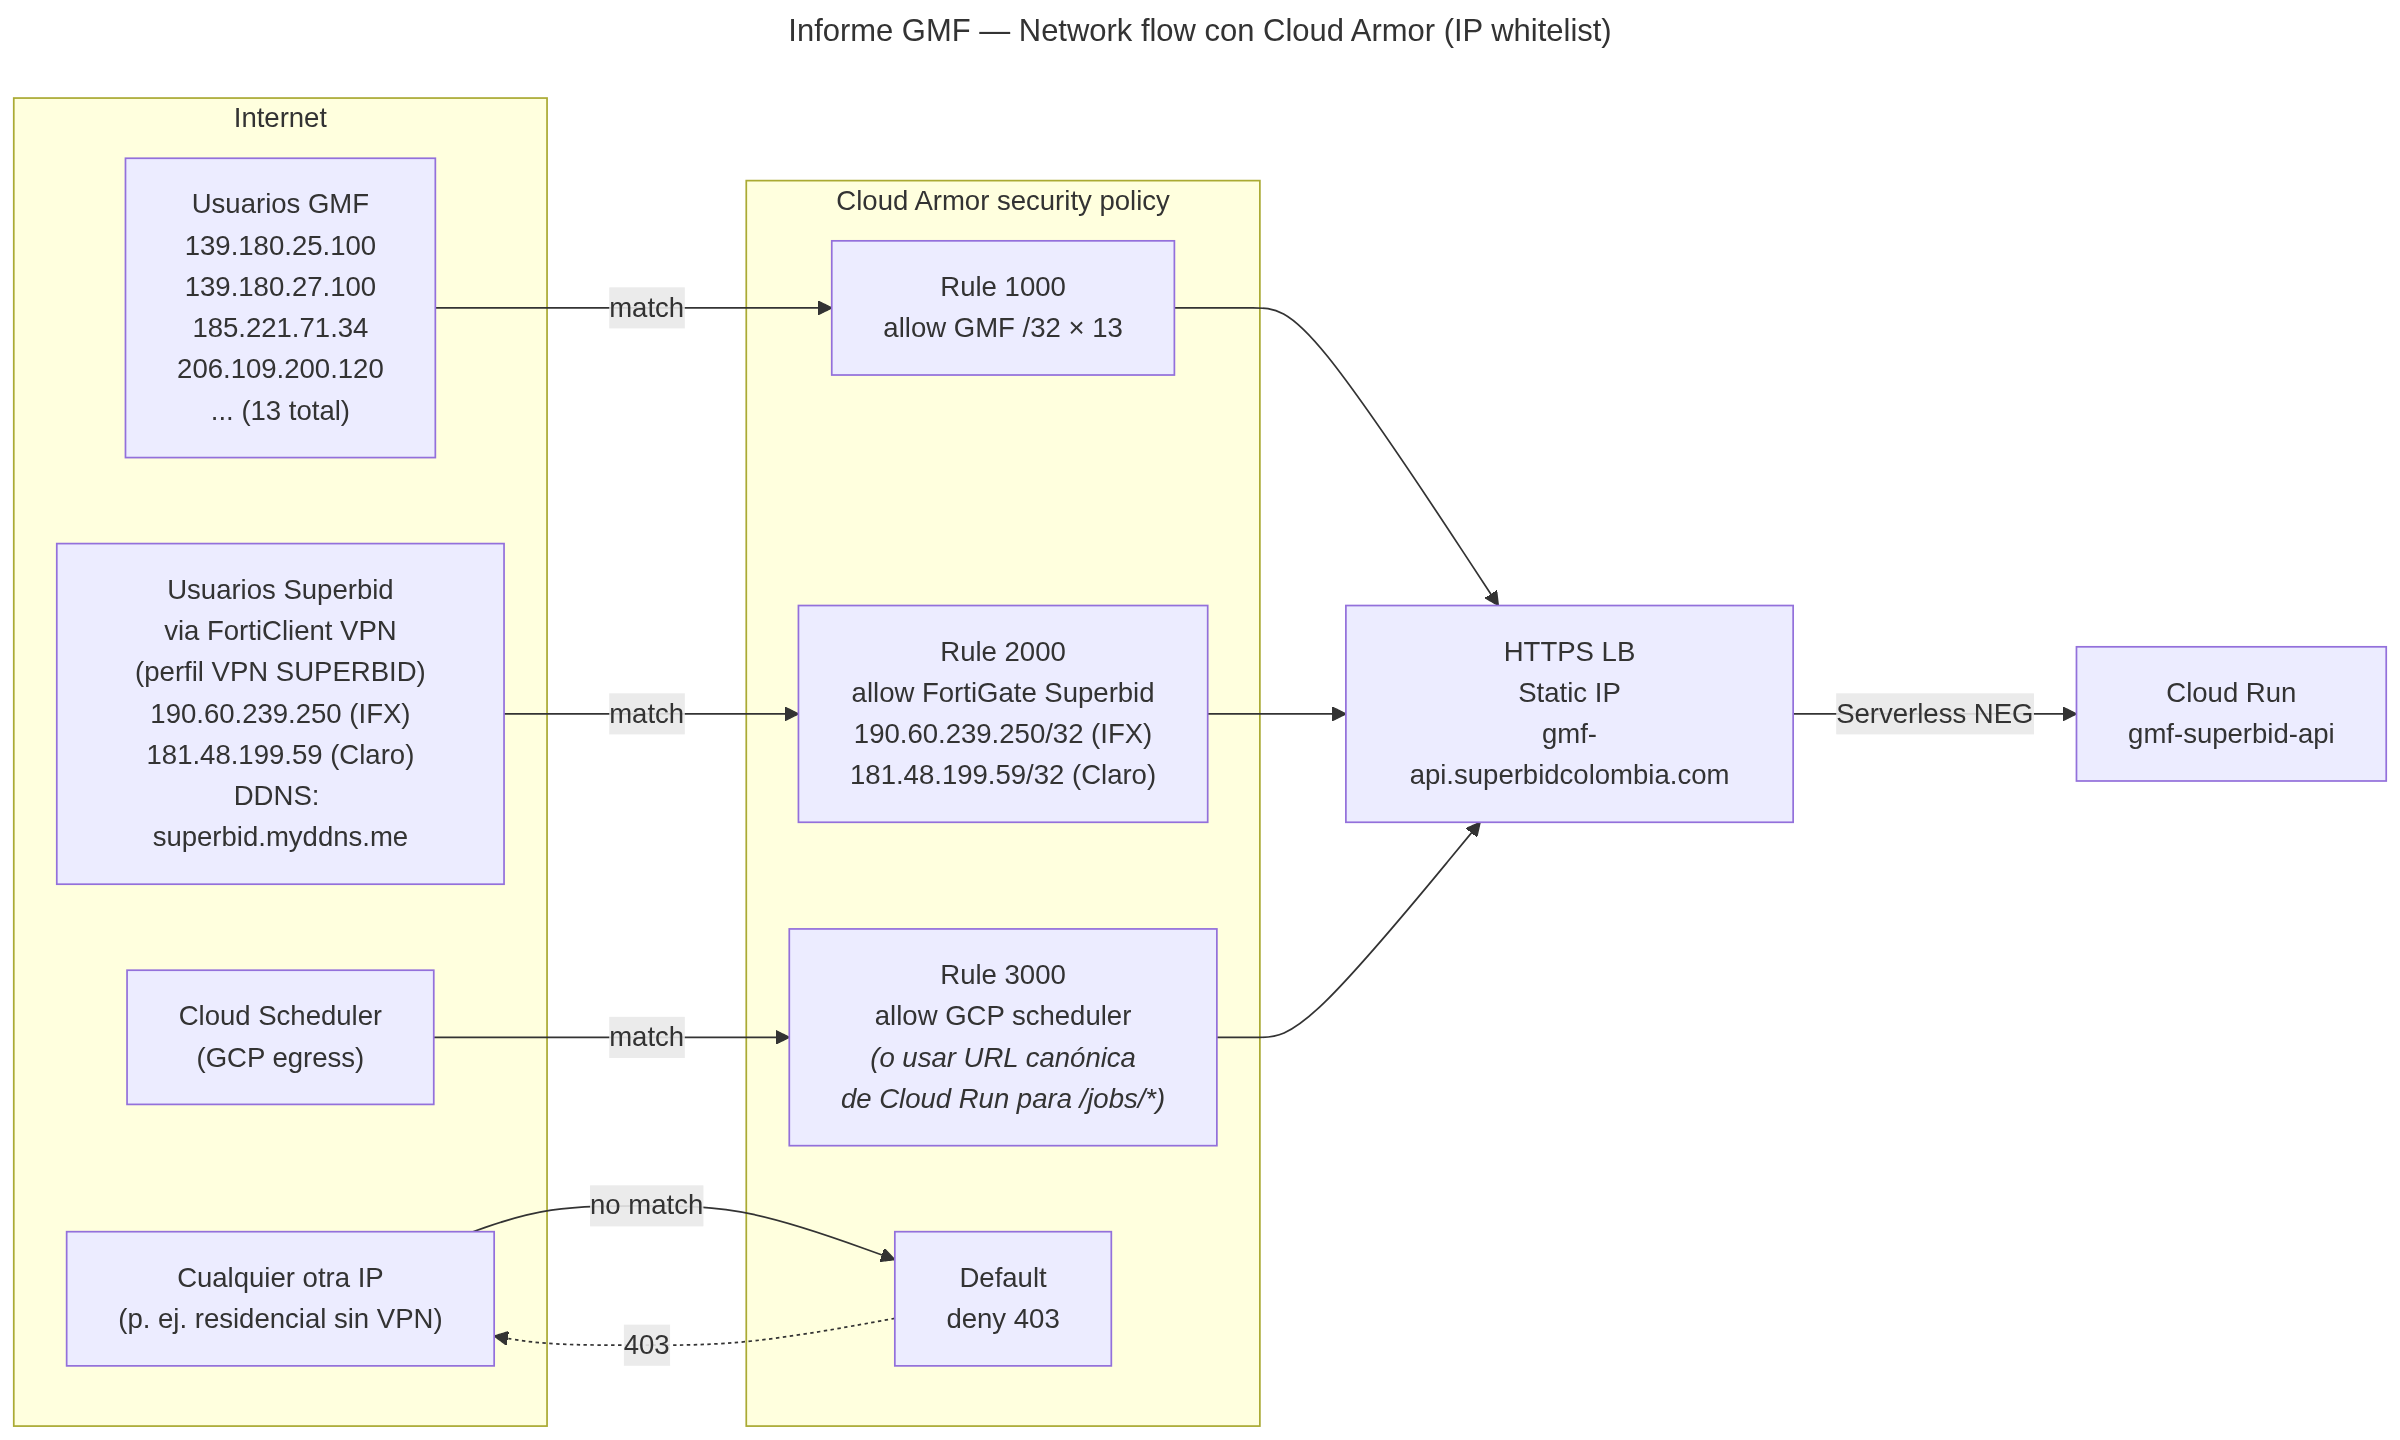
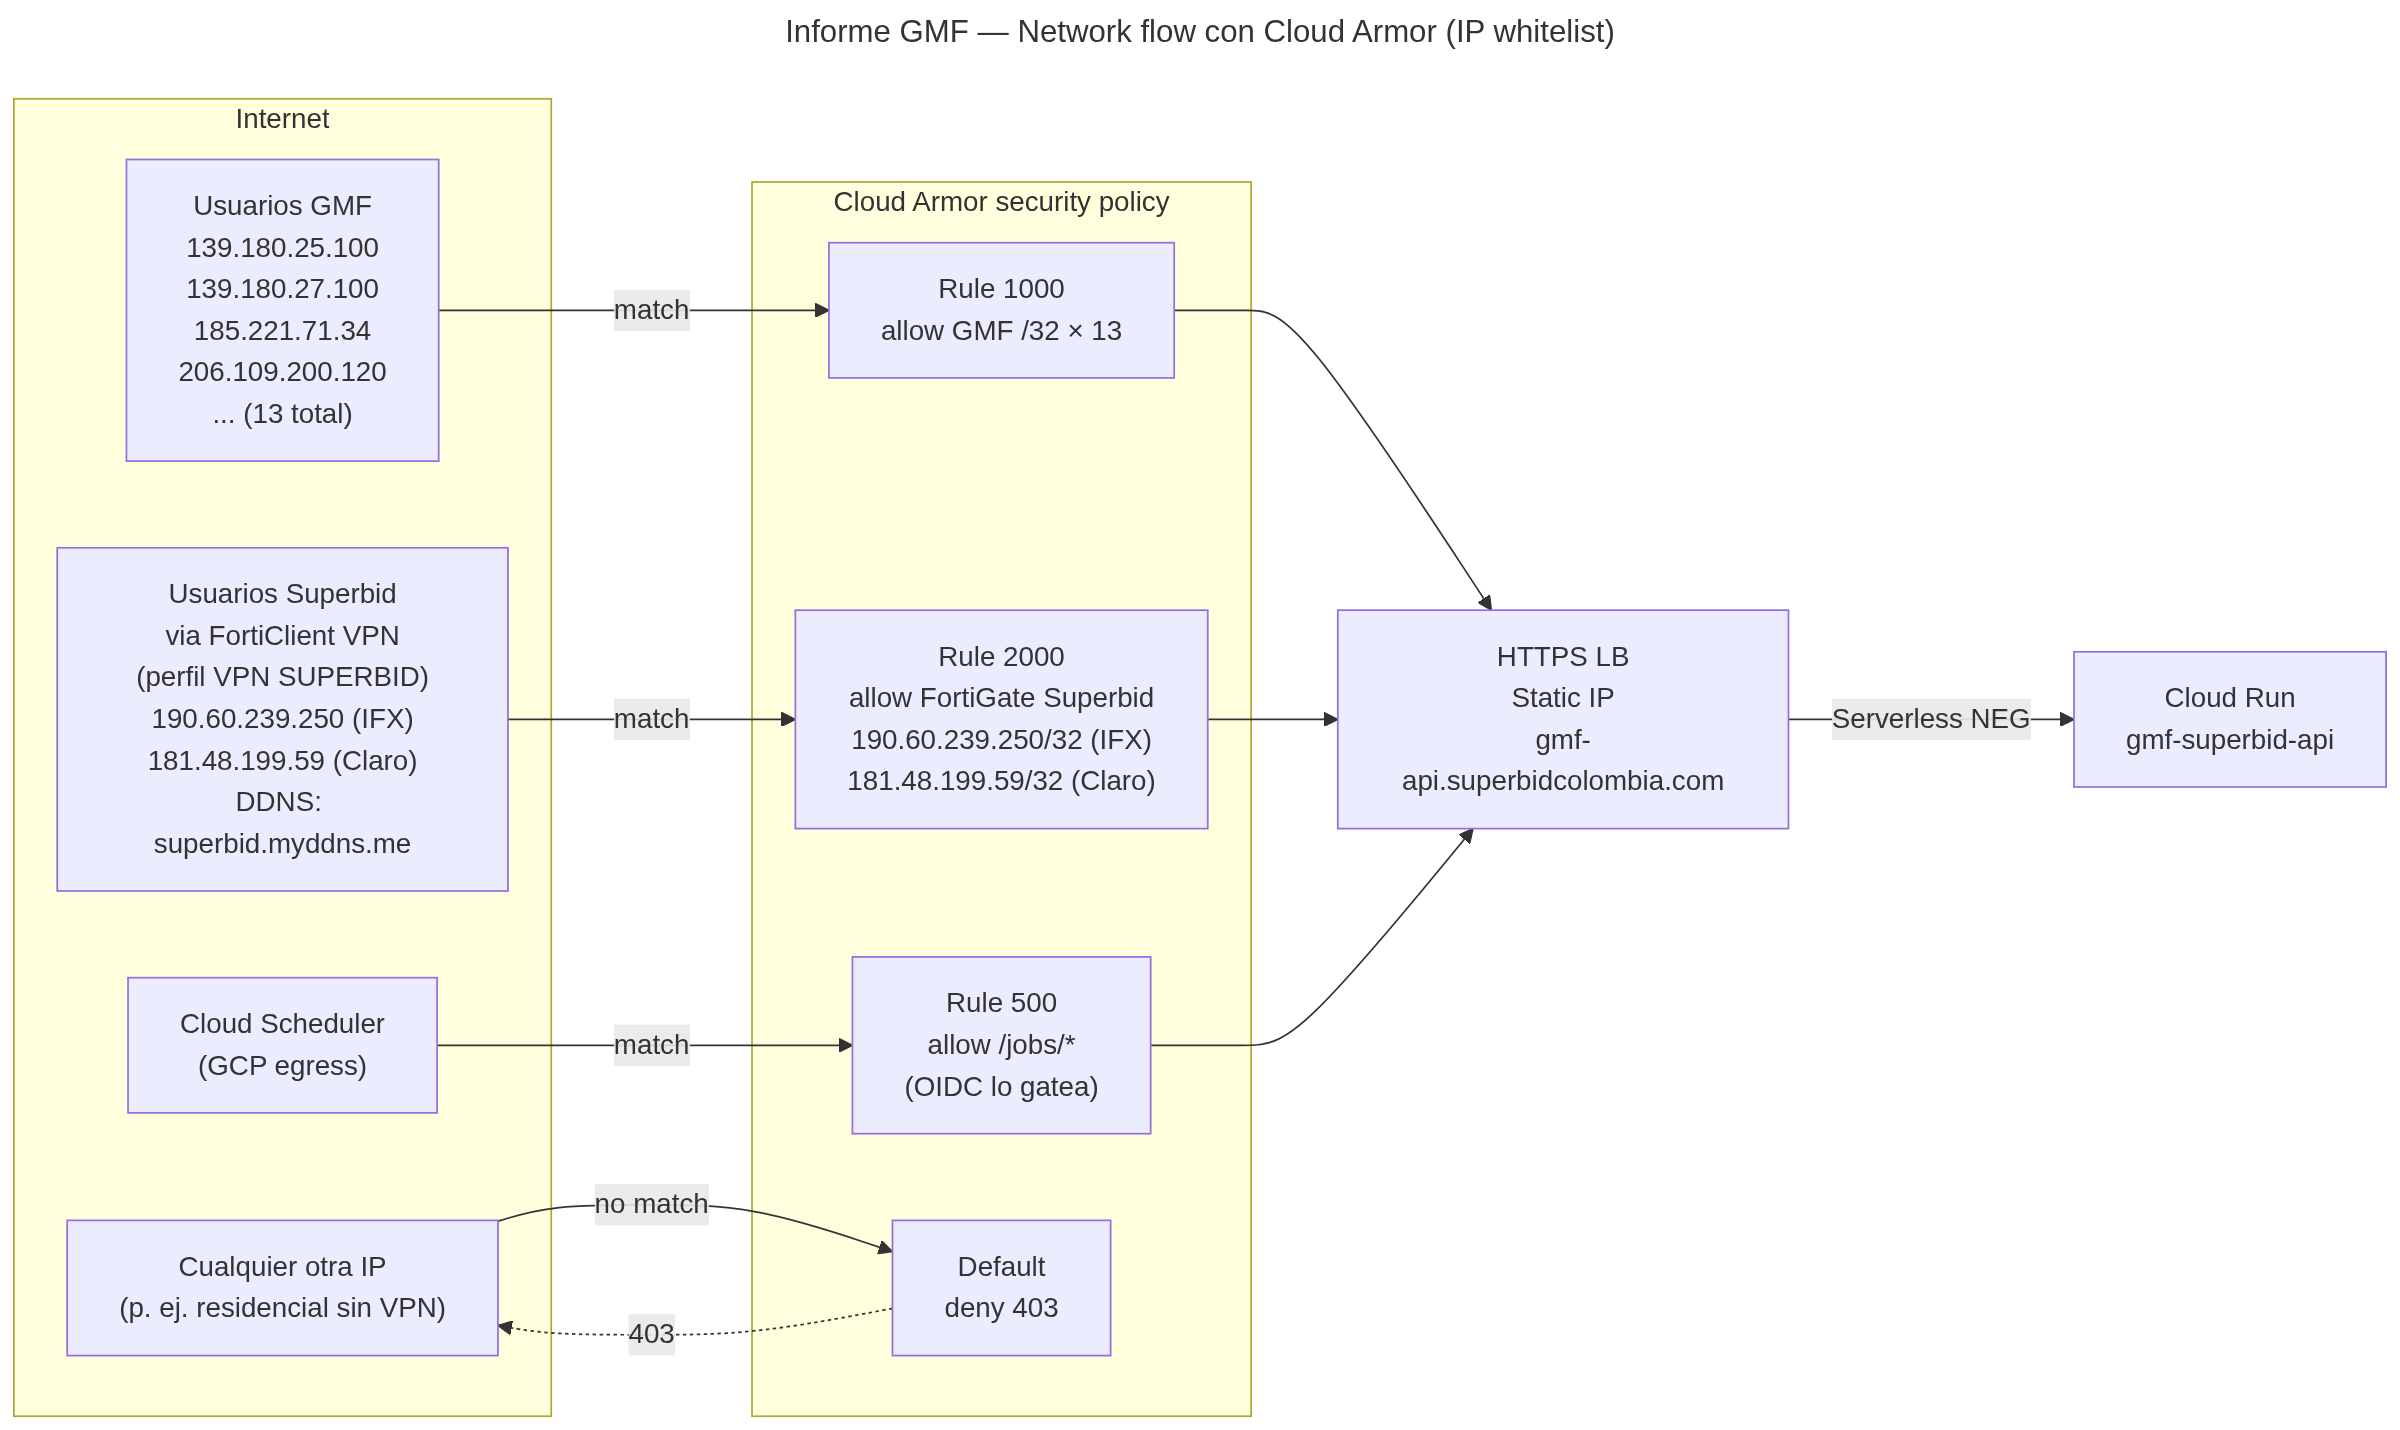
Tanda 3: CI frontend al bucket GCS, CORS, y sync de docs
Cierra hallazgos de drift del code-review 2026-05-13.

#5 (alto) — CI de frontend a target muerto:
- deploy-frontend.yml deja de deployar a Firebase Hosting (huérfano) y
  sube el build al bucket real gs://gmf-superbid-frontend (detrás del LB).
  Sin Cloud CDN, los objetos quedan live de inmediato. Cache-control:
  index.html/raíz no-cache, assets/ (con hash) inmutable 1 año. Smoke
  test por control-plane (describe del objeto; el sitio en vivo está tras
  Cloud Armor y el runner no está whitelisted).
- setup-gcloud project -> sbc-lovable (donde vive el bucket). El deployer
  SA ya tiene storage.admin ahí.
- Borra firebase.json y .firebaserc (config muerta; el frontend ya no
  usa Firebase Hosting).

#25 (bajo) — CORS con orígenes Firebase muertos:
- env.production.yaml ALLOWED_ORIGINS -> solo localhost + gmf.superbidcolombia.com.
  Aplicado también en vivo al servicio Cloud Run (revisión 00015).

#9/#10/#23/#24/#35 — arquitectura.md desactualizada:
- Cloud Armor + LB ya NO marcados "(planeado)" (están en enforce).
- Frontend: Firebase Hosting -> bucket GCS detrás del LB.
- Cloud Run: domain mapping borrado -> ingress=internal-and-cloud-load-balancing.
- Cloud Scheduler: endpoints por el LB; regla Cloud Armor allow /jobs/*.
- Tabla de recursos, modelo de auth (2 capas red+app) y lista CORS al día.
- Diagramas Mermaid inline + .mmd fuente actualizados; PNG regenerados
  vía mermaid.ink (01-overview, 02-network, 04-jobs).

diff --git a/docs/arquitectura.md b/docs/arquitectura.md
@@ -15,14 +15,11 @@ flowchart TB
         userSB["Usuarios Superbid<br/>FortiClient VPN obligatoria<br/>(perfil VPN SUPERBID)<br/>IFX 190.60.239.250<br/>Claro 181.48.199.59<br/>(balanceo + failover)"]
     end
 
-    subgraph fb["Firebase project: informegmf"]
-        fh["Firebase Hosting<br/><b>gmf.superbidcolombia.com</b><br/>SPA Vite/React/TS"]
-    end
-
     subgraph gcp_lov["GCP project: sbc-lovable"]
-        ca["Cloud Armor<br/>IP whitelist + deny default<br/><i>(planeado)</i>"]
-        lb["HTTPS Load Balancer<br/>+ Static IP global<br/><i>(planeado)</i>"]
-        cr["Cloud Run<br/><b>gmf-superbid-api</b><br/>Hono + Node 22<br/>us-central1"]
+        ca["Cloud Armor<br/>IP whitelist + deny default<br/>+ allow /jobs/*"]
+        lb["HTTPS Load Balancer<br/>+ Static IP 34.36.21.184"]
+        fh["GCS bucket<br/>gmf-superbid-frontend<br/><b>gmf.superbidcolombia.com</b><br/>SPA Vite/React/TS"]
+        cr["Cloud Run<br/><b>gmf-superbid-api</b><br/>Hono + Node 22<br/>ingress: solo LB"]
         sm["Secret Manager<br/>informegmf-*"]
         sched["Cloud Scheduler<br/>deadline-alerts +<br/>auction-complete<br/>daily 9 AM Bogotá"]
     end
@@ -42,13 +39,13 @@ flowchart TB
         okta["OKTA IdP<br/>GM Financial<br/><i>(planeado)</i>"]
     end
 
-    userGMF -->|HTTPS| fh
-    userSB -->|HTTPS| fh
-    fh -->|"gmf-api.superbidcolombia.com<br/>+ user JWT"| ca
+    userGMF -->|HTTPS| ca
+    userSB -->|HTTPS| ca
     ca --> lb
-    lb -->|Serverless NEG| cr
+    lb -->|"gmf.superbidcolombia.com"| fh
+    lb -->|"gmf-api... Serverless NEG"| cr
 
-    fh -.->|login flow| sauth
+    fh -.->|"login (browser → Supabase)"| sauth
     sauth -.->|SAML| okta
     sauth -->|JWT ES256| fh
 
@@ -59,10 +56,10 @@ flowchart TB
     cr -->|runtime config| sm
     cr -->|send| resend
 
-    sched -->|OIDC ID token<br/>aud=gmf-api...| cr
+    sched -->|"OIDC, vía LB /jobs/*"| lb
 
     classDef planned stroke-dasharray:5 5,stroke:#f59e0b,color:#92400e
-    class ca,lb,okta planned
+    class okta planned
 ```
 
 ### Network — IP whitelist (Cloud Armor)
@@ -88,7 +85,7 @@ flowchart LR
     subgraph policy["Cloud Armor security policy"]
         r1["Rule 1000<br/>allow GMF /32 × 13"]
         r2["Rule 2000<br/>allow FortiGate Superbid<br/>190.60.239.250/32 (IFX)<br/>181.48.199.59/32 (Claro)"]
-        r3["Rule 3000<br/>allow GCP scheduler<br/><i>(o usar URL canónica<br/>de Cloud Run para /jobs/*)</i>"]
+        r3["Rule 500<br/>allow /jobs/*<br/>(OIDC lo gatea)"]
         rd["Default<br/>deny 403"]
     end
 
@@ -150,8 +147,8 @@ sequenceDiagram
 
     Note over CS: deadline-alerts<br/>auction-complete
     CS->>SA: 1. firmar OIDC ID token<br/>aud=gmf-api.superbidcolombia.com
-    CS->>CA: 2. POST /jobs/<job><br/>Authorization: Bearer
-    Note over CA: allow GCP scheduler<br/>(o bypass via URL<br/>canónica de Cloud Run)
+    CS->>CA: 2. POST /jobs/<job> (vía LB)<br/>Authorization: Bearer
+    Note over CA: allow /jobs/* por path<br/>(Cloud Run ingress = solo LB)
     CA->>BE: 3. forward
     BE->>BE: 4. oidcMiddleware<br/>Google JWKS + email match
     BE->>DB: 5. query pagos/docs
@@ -204,9 +201,9 @@ En `sbc-data-int`:
 | Recurso | Detalle |
 |---|---|
 | Artifact Registry | `us-central1-docker.pkg.dev/sbc-lovable/informegmf` (Docker) |
-| Cloud Run service | `gmf-superbid-api` en `us-central1`, min-instances=1, max-instances=5, 512 MiB, 1 CPU |
-| Cloud Run domain mapping | `gmf-api.superbidcolombia.com` → `gmf-superbid-api`, cert managed |
-| Firebase Hosting site | `informegmf.web.app` (default) + `gmf.superbidcolombia.com` (custom; cert SAN multi-tenant Firebase/Fastly emitido por Google Trust Services, válido hasta 2026-08-05; verificado 2026-05-10) |
+| Cloud Run service | `gmf-superbid-api` en `us-central1`, min-instances=1, max-instances=5, 512 MiB, 1 CPU. **Ingress = `internal-and-cloud-load-balancing`** (solo alcanzable por el LB; el domain mapping directo fue borrado en Fase 4b) |
+| Frontend hosting | Bucket GCS `gs://gmf-superbid-frontend` servido por el mismo LB (backend bucket `gmf-superbid-frontend-backend`), host `gmf.superbidcolombia.com`. Firebase Hosting quedó obsoleto (Fase 6) |
+| Load Balancer + Cloud Armor | HTTPS LB global, IP estática `34.36.21.184`, cert Certificate Manager. Policy estándar `gmf-superbid-api-policy` (backend API) + Edge policy `gmf-superbid-edge-policy` (frontend bucket): IP whitelist GMF+Superbid, `/jobs/*` allow por path, default deny-403 |
[1 lines of base64/hex data omitted]
 
 ### Cloud Scheduler jobs
@@ -218,20 +215,22 @@ En `sbc-data-int`:
 
 ## Modelo de auth
 
-| Path | Mecanismo | Validador |
+Dos capas: **red** (Cloud Armor IP whitelist + ingress solo-LB) y **aplicación** (JWT / rol / OIDC). Como Cloud Run tiene `ingress=internal-and-cloud-load-balancing`, la URL canónica `*.run.app` NO es alcanzable directamente — todo pasa por el LB.
+
+| Path | Red (Cloud Armor) | App |
 |---|---|---|
-| `GET /health` | público | — |
-| `GET /api/*` | user JWT de Supabase (ES256) | `authMiddleware` valida vía Supabase JWKS (`https://<ref>.supabase.co/auth/v1/.well-known/jwks.json`); rechaza role=anon |
-| `GET\|POST /fetch-bigquery` | idem | idem |
-| `GET\|POST /gcs-documents` | idem | idem |
-| `POST /jobs/*` | OIDC ID token de Google | `oidcMiddleware` valida vs Google JWKS, comprueba audience y email del SA (Cloud Scheduler emite los tokens con email = `gmf-scheduler@...`) |
+| `GET /health` | solo IP whitelist (vía LB) | público a nivel app |
+| `GET\|POST /fetch-bigquery` | solo IP whitelist | user JWT Supabase (ES256, JWKS) **+ rol de staff** (`requireAnyRole`) |
+| `GET\|POST /gcs-documents` | solo IP whitelist | user JWT + rol; mutaciones (upload/delete) requieren editor/admin; `diagnose` admin |
+| `GET /api/*` | solo IP whitelist | user JWT Supabase (rechaza role=anon) |
+| `POST /jobs/*` | **allow desde cualquier IP** (regla Cloud Armor por path) | OIDC ID token de Google: `oidcMiddleware` valida Google JWKS + audience (`JOBS_OIDC_AUDIENCE`, falla-cerrado en prod) + email del SA `gmf-scheduler@...` |
+
+`authMiddleware` valida el JWT vía Supabase JWKS (`https://<ref>.supabase.co/auth/v1/.well-known/jwks.json`). `requireAnyRole` consulta `public.user_roles` (los roles no viajan en el JWT).
 
 CORS lista (configurada en `backend/env.production.yaml`):
 
 ```
 http://localhost:8080
-https://informegmf.web.app
-https://informegmf.firebaseapp.com
 https://gmf.superbidcolombia.com
 ```
 
